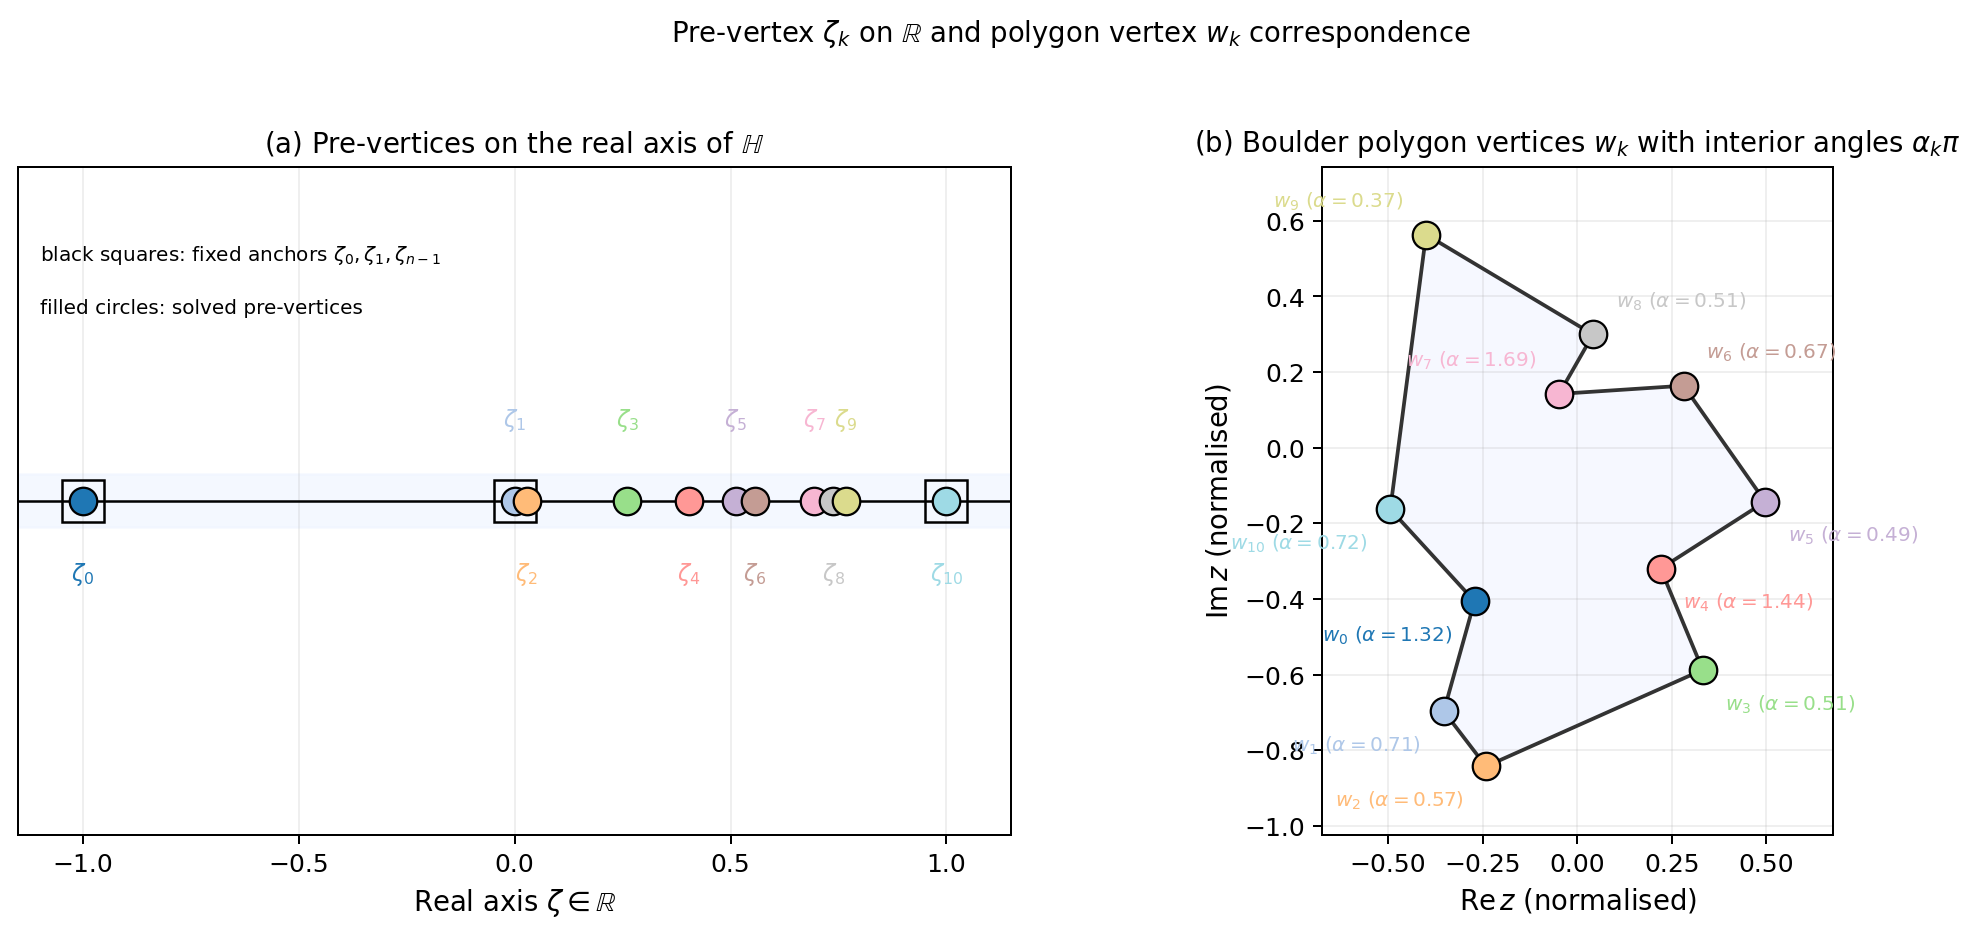
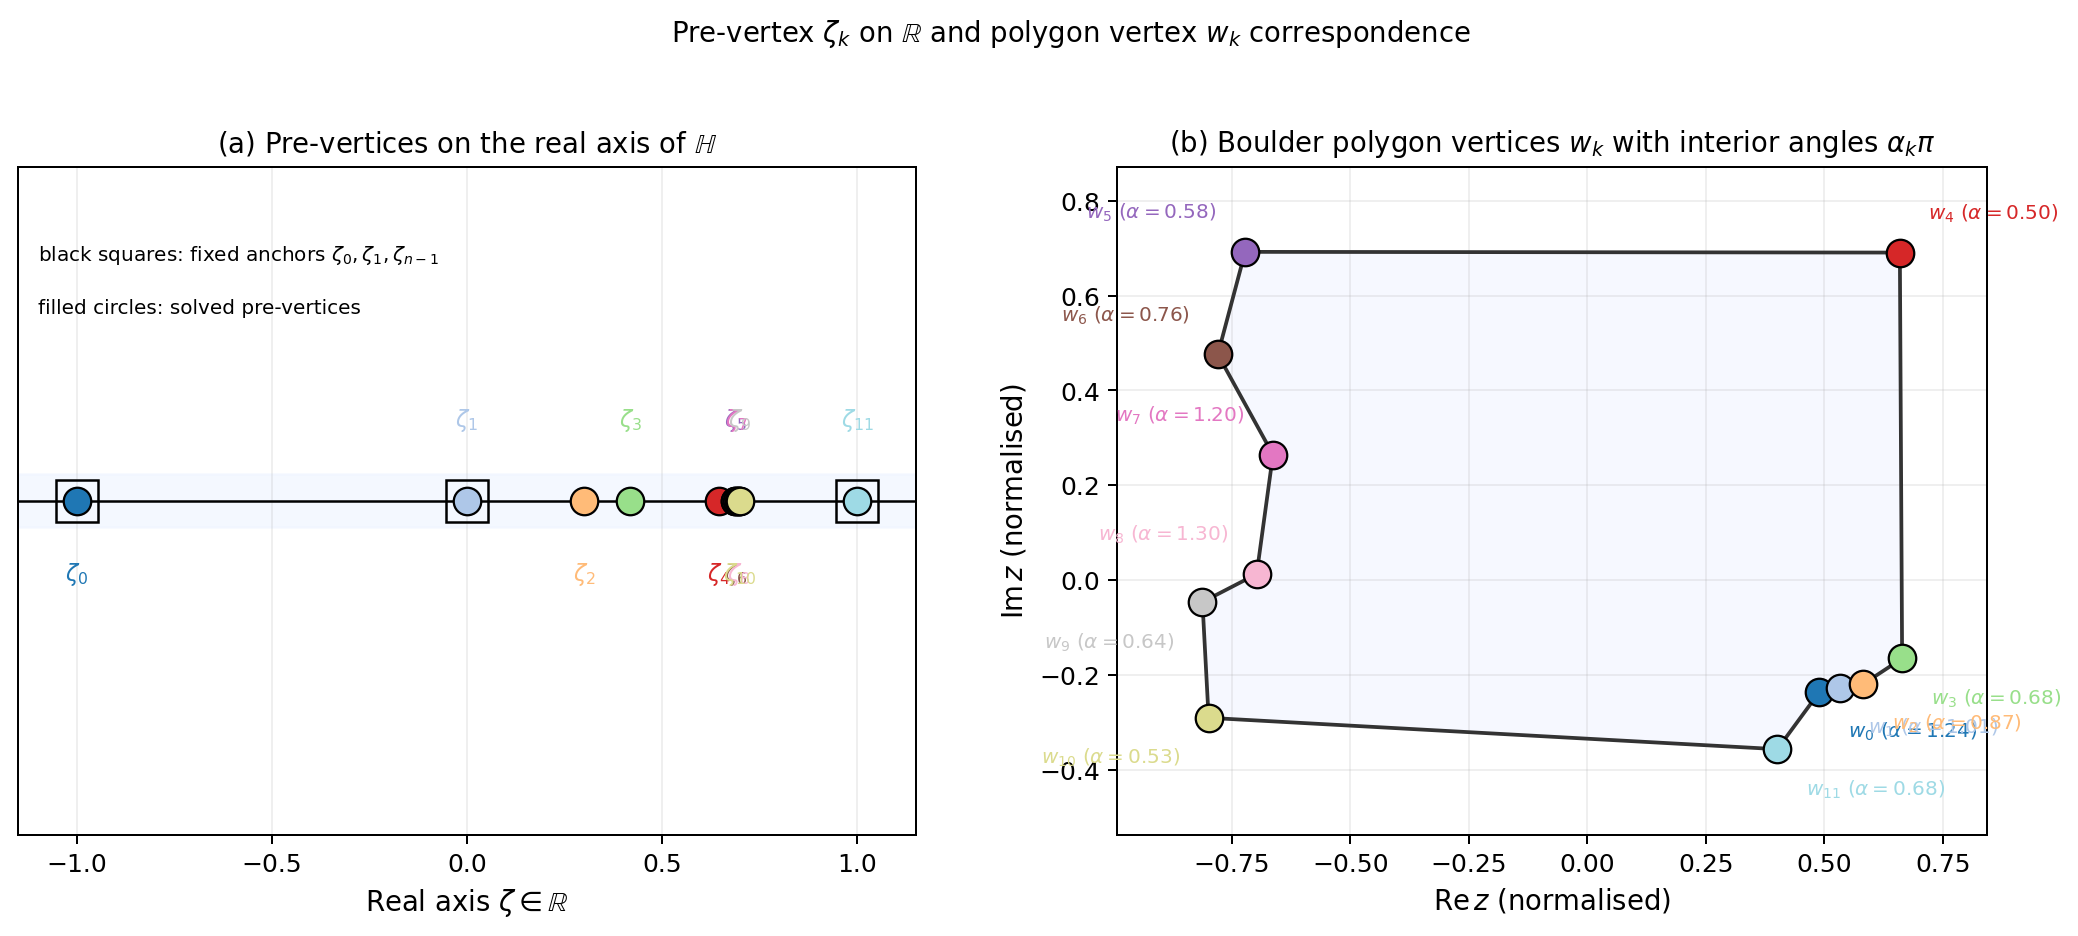
feat: switch polygon source from Boulder city to Boulder County boundary
- Download TIGER/Line 2025 county shapefile; extract Boulder County
  (GEOID 08013, ~1916 km², 2752 vertices) to data/raw/tl_2025_08_county/
- Update build_boulder_cache.py to use county shapefile path
- Rebuild boulder_cache.pkl: 2752-vertex county → 14-vertex DP →
  12-vertex after removing two acute-angle (<0.35π) vertices; LM cost 1.11e-2
- Regenerate Figs C, D, F with county-based SC parameters
- Update report_draft.tex: all city→county references, 1935→2752 vertices,
  11-vertex→12-vertex, n=11→n=12, 8 free→9 free pre-vertices,
  tl_2025_08_place→tl_2025_08_county, LM residual note updated
- Update README.md to match county pipeline and new solver numbers

diff --git a/report_draft.tex b/report_draft.tex
@@ -62,8 +62,8 @@
 
 \begin{abstract}
 This paper applies the Schwarz--Christoffel (SC) conformal mapping to simulate
-steady, irrotational, incompressible ideal fluid flow inside an 11-vertex
-simplification of the Boulder, Colorado city-boundary polygon. The SC
+steady, irrotational, incompressible ideal fluid flow inside a 12-vertex
+simplification of the Boulder County, Colorado boundary polygon. The SC
 transformation maps the upper half-plane $\HH$ conformally onto the polygonal
 domain $\Omega$, converting analytically tractable complex potentials in $\HH$
 into streamline and equipotential patterns in the physical domain. Two flow
@@ -101,8 +101,8 @@ closed form; for general $n$-gons it must be treated numerically. The modern
 numerical theory was systematised by Driscoll and Trefethen~\citep{DT09}; the
 classical theory is in Nehari~\citep{Nehari52} and Ahlfors~\citep{Ahlfors79}.
 
-We apply the SC transformation to an 11-vertex polygon derived from the
-Boulder, Colorado city boundary, chosen for its mix of convex and reflex
+We apply the SC transformation to a 12-vertex polygon derived from the
+Boulder County, Colorado boundary, chosen for its mix of convex and reflex
 vertices as a non-trivial test of the numerical pipeline. Two flow regimes
 are considered: (i)~uniform ideal flow, providing the baseline conformal grid,
 and (ii)~doubly-connected flow with an interior obstacle modelled via the
@@ -293,7 +293,7 @@ of generality. We use
   \label{eq:normalisation}
 \end{equation}
 leaving $n - 3$ free parameters $\zeta_2 < \cdots < \zeta_{n-2}$ in $(0, 1)$.
-For Boulder, $n = 11$ yields $n - 3 = 8$ free pre-vertices. These are
+For Boulder County, $n = 12$ yields $n - 3 = 9$ free pre-vertices. These are
 determined by matching side-length ratios; see Section~\ref{sec:param}.
 
 \subsection{Method of Images}
@@ -464,8 +464,8 @@ family of rectangles of varying aspect ratio. The spacing drops below
 $10^{-4}$ at $L \approx 4$ and below $10^{-8}$ at $L \approx 7$; beyond
 $L \gtrsim 10$ the spacing approaches double precision and the parameter
 problem becomes ill-posed. This limits SC solvers to $n \lesssim 20$ vertices
-with mild aspect ratios, and is the reason the 1935-vertex Boulder boundary
-must be simplified to an 11-vertex polygon (Section~\ref{sec:preprocess}).
+with mild aspect ratios, and is the reason the 2752-vertex Boulder County boundary
+must be simplified to a 12-vertex polygon (Section~\ref{sec:preprocess}).
 The chosen simplification has all interior angles confined to
 $[0.35\pi, 1.75\pi]$, keeping the conformal modulus of each sub-region within
 the stable regime.
@@ -494,11 +494,11 @@ the stable regime.
 \subsection{Polygon Preprocessing}
 \label{sec:preprocess}
 
-The raw Boulder TIGER/Line boundary~\citep{TIGER25} has 1935 vertices.
+The raw Boulder County TIGER/Line boundary~\citep{TIGER25} has 2752 vertices.
 Douglas--Peucker simplification with an adaptive binary-search tolerance
-reduces it to 14 vertices; three vertices with reflex angles exceeding
-$1.75\pi$ are then removed iteratively by merging adjacent edges, yielding the
-final $n = 11$ polygon. The polygon is normalised to $O(1)$ scale and centred
+reduces it to 14 vertices; two vertices with excessively acute angles below
+$0.35\pi$ are then removed iteratively by merging adjacent edges, yielding the
+final $n = 12$ polygon. The polygon is normalised to $O(1)$ scale and centred
 at the origin for numerical stability. The angle bounds $[0.35\pi, 1.75\pi]$
 are chosen from the crowding discussion of Section~\ref{sec:crowding}.
 
@@ -543,7 +543,7 @@ vectorised dot product. Levenberg--Marquardt update details are in
 Appendix~\ref{app:lm}.
 
 Figure~\ref{fig:prevertex-polygon} shows the recovered pre-vertex layout for
-the 11-vertex Boulder polygon alongside the polygon itself, with each
+the 12-vertex Boulder County polygon alongside the polygon itself, with each
 $\zeta_k \leftrightarrow w_k$ pair colour-matched. The concentration of
 pre-vertices toward one side of the real axis directly visualises the
 crowding phenomenon of Section~\ref{sec:crowding}: vertices on the narrow
@@ -698,8 +698,8 @@ convergence history.
 
 \subsection{Polygon Simplification}
 
-Figure~\ref{fig:poly} shows the original 1935-vertex TIGER/Line boundary of
-Boulder alongside the 11-vertex polygon used in the SC computation.
+Figure~\ref{fig:poly} shows the original 2752-vertex TIGER/Line boundary of
+Boulder County alongside the 12-vertex polygon used in the SC computation.
 Douglas--Peucker removes fine-scale boundary undulations; the interior-angle
 filter then enforces $\alpha_k \in [0.35\pi, 1.75\pi]$. The aspect ratio and
 dominant geometric features are faithfully preserved.
@@ -708,8 +708,8 @@ dominant geometric features are faithfully preserved.
   \centering
   \includegraphics[width=0.80\textwidth]{figures/fig1_polygon_comparison.png}
   \caption{\textbf{Boulder boundary before and after SC preprocessing.}
-  Left: original 1935-vertex TIGER/Line polygon~\citep{TIGER25}.
-  Right: 11-vertex simplification after Douglas--Peucker reduction and
+  Left: original 2752-vertex TIGER/Line polygon~\citep{TIGER25}.
+  Right: 12-vertex simplification after Douglas--Peucker reduction and
   iterative angle filtering with bounds $\alpha_k \in [0.35\pi, 1.75\pi]$.
   The simplified polygon is the domain $\Omega$ for all subsequent
   SC computations.}
@@ -751,7 +751,7 @@ of the Cauchy--Riemann equations~\eqref{eq:CR} wherever $f'(\zeta) \neq 0$.
     \includegraphics[width=\textwidth]{figures/fig4_combined.png}
     \caption{Conformal grid (streamlines + equipotentials).}
   \end{subfigure}
-  \caption{\textbf{Uniform flow $W = U\zeta$ in the 11-vertex Boulder
+  \caption{\textbf{Uniform flow $W = U\zeta$ in the 12-vertex Boulder County
   polygon $\Omega$.} Streamlines are the forward images of horizontal lines
   $\Imag \zeta = \eta_0$ in $\HH$; equipotentials are images of
   $\Real \zeta = \xi_0$. The SC map $f : \HH \to \Omega$ preserves angles
@@ -871,8 +871,8 @@ $\Omega$.
 A practical obstruction identified in Section~\ref{sec:crowding} is
 \emph{SC crowding}: the pre-vertex spacing across a long region of aspect
 ratio $L$ contracts exponentially in $L$, a rigid conformal invariant tied
-to the modulus of the region. This forces the 1935-vertex Boulder boundary
-to be simplified to 11 vertices before any SC computation is feasible.
+to the modulus of the region. This forces the 2752-vertex Boulder County boundary
+to be simplified to 12 vertices before any SC computation is feasible.
 
 \paragraph{Future directions.}
 Two extensions are natural.
@@ -911,9 +911,10 @@ the update reduces to the Gauss--Newton step (fast second-order convergence
 near a good solution); when $\lambda_t \to \infty$ it reduces to a small
 gradient-descent step (stable near ill-conditioned regions). The damping is
 increased whenever a proposed step fails to reduce $\|r\|_2$ and decreased
-on successful steps. For the Boulder $11$-vertex problem the solver converges
-in approximately $1.8 \times 10^4$ function evaluations to a residual
-$\|r\|_2 \approx 6 \times 10^{-4}$.
+on successful steps. For the Boulder County $12$-vertex problem the solver reduces the
+LM cost to $\approx 1.1 \times 10^{-2}$ after five restart passes,
+reflecting mild crowding of six pre-vertices into the interval
+$[0.688, 0.700]$ on the real axis.
 
 \section{Code and Reproducibility}
 \label{app:code}
@@ -923,7 +924,7 @@ repository\footnote{\url{https://github.com/McDonaldCrispyThigh/Ideal-Flow-SC}}.
 The two-model pipeline is reproduced by:
 \begin{verbatim}
   pip install -r requirements.txt
-  python main.py --shapefile data/raw/tl_2025_08_place --urban --grid 80
+  python main.py --shapefile data/raw/tl_2025_08_county --urban --grid 80
 \end{verbatim}
 Key modules: \texttt{src/polygon.py} (boundary preprocessing),
 \texttt{src/angles.py} (interior-angle computation),

diff --git a/scripts/build_boulder_cache.py b/scripts/build_boulder_cache.py
@@ -31,7 +31,7 @@ logger = logging.getLogger("build_cache")
 
 
 def main():
-    shp = os.path.join(PROJECT_ROOT, "data", "raw", "tl_2025_08_place")
+    shp = os.path.join(PROJECT_ROOT, "data", "raw", "tl_2025_08_county")
     out_path = os.path.join(PROJECT_ROOT, "scripts", "boulder_cache.pkl")
 
     logger.info("Loading Boulder polygon from %s", shp)

diff --git a/README.md b/README.md
@@ -9,7 +9,7 @@ University of Colorado Boulder, Department of Applied Mathematics
 ## Overview
 
 This project applies the **Schwarz-Christoffel (SC) conformal mapping** to simulate
-ideal incompressible fluid flow inside the Boulder, Colorado city boundary polygon, with
+ideal incompressible fluid flow inside the Boulder County, Colorado boundary polygon, with
 the additional physical constraint that the velocity field is irrotational and the flow
 is in steady state. Two flow models are derived and visualised, each confirmed against a
 closed-form benchmark:
@@ -19,7 +19,7 @@ closed-form benchmark:
 | Uniform flow | $U\zeta$ | Ideal parallel flow; baseline conformal grid |
 | Urban obstacle | $U\zeta + \dfrac{Ua^2}{\zeta - \zeta_0} + \dfrac{Ua^2}{\zeta - \bar\zeta_0}$ | Milne-Thomson circle-theorem obstacle |
 
-The SC map $f : \mathbb{H} \to \Omega$ sends the upper half-plane to the Boulder polygon,
+The SC map $f : \mathbb{H} \to \Omega$ sends the upper half-plane to the Boulder County polygon,
 converting analytically tractable complex potentials in $\mathbb{H}$ into streamlines and
 equipotentials in the physical domain. All results use the **forward-map** approach: a
 dense grid in $\mathbb{H}$ is pushed through $f$, avoiding per-pixel Newton iteration.
@@ -58,7 +58,7 @@ found by Levenberg-Marquardt nonlinear least-squares matching edge-length ratios
 | Parameterisation | Softmax reparameterisation, $\zeta_k \in (0,1)$; ordering and box constraints are automatic |
 | Quadrature | $N = 500$-node Gauss-Legendre; convergence rate $O(N^{-1})$ at branch-point endpoints |
 | Pre-vertex accuracy | $\sim 10^{-4}$ (set by plain GL at $(t-\zeta_k)^{-1/2}$ singularities) |
-| LM residual (Boulder 11-vertex) | $\|r\|_2 \approx 6 \times 10^{-4}$ |
+| LM residual (Boulder County 12-vertex) | $\|r\|_2 \approx 1.1 \times 10^{-2}$ |
 | Verification (rectangle, $m(R)=2$) | exact $s = 2\sqrt{2}/3 \approx 0.94281$; recovered $0.94296$; error $1.5\times 10^{-4}$ |
 
 ---
@@ -118,15 +118,15 @@ python scripts/make_milne_thomson_schematic.py  # Fig E: Milne-Thomson schematic
 python scripts/make_branch_cut_schematic.py     # Fig G: branch-cut path
 
 # Full pipeline (uniform + urban obstacle)
-python main.py --shapefile data/raw/tl_2025_08_place --urban --grid 80
+python main.py --shapefile data/raw/tl_2025_08_county --urban --grid 80
 ```
 
 | Stage | Detail | Value |
 |-------|--------|-------|
-| Raw polygon | TIGER/Line vertices | 1935 |
+| Raw polygon | TIGER/Line vertices | 2752 |
 | Douglas-Peucker simplification | Adaptive tolerance | ~14 vertices |
-| Extreme-angle removal | $\alpha \notin [0.35\pi,\, 1.75\pi]$ dropped | 11 vertices |
-| SC parameter solve | LM residual $\|r\|_2$ | $\approx 6\times10^{-4}$ |
+| Extreme-angle removal | $\alpha \notin [0.35\pi,\, 1.75\pi]$ dropped | 12 vertices |
+| SC parameter solve | LM residual $\|r\|_2$ | $\approx 1.1\times10^{-2}$ |
 | Urban obstacle | OSM landuse data | $0.82\ \mathrm{km}^2$ commercial core |
 | Circle separation | $\mathrm{Im}(\zeta_0)/a$ | 5.36 |
 
@@ -210,7 +210,7 @@ extends downward from each $\zeta_k$ into the lower half-plane).
 
 | Figure | File | Description |
 |--------|------|-------------|
-| Fig 1 | `fig1_polygon_comparison.png` | Original 1935-vertex vs. 11-vertex simplified boundary |
+| Fig 1 | `fig1_polygon_comparison.png` | Original 2752-vertex vs. 12-vertex simplified boundary |
 | Fig 2 | `fig2_streamlines.png` | Streamlines $\psi = \mathrm{const}$ under $W = U\zeta$ |
 | Fig 3 | `fig3_equipotentials.png` | Equipotentials $\phi = \mathrm{const}$ |
 | Fig 4 | `fig4_combined.png` | Conformal grid (streamlines + equipotentials) |
